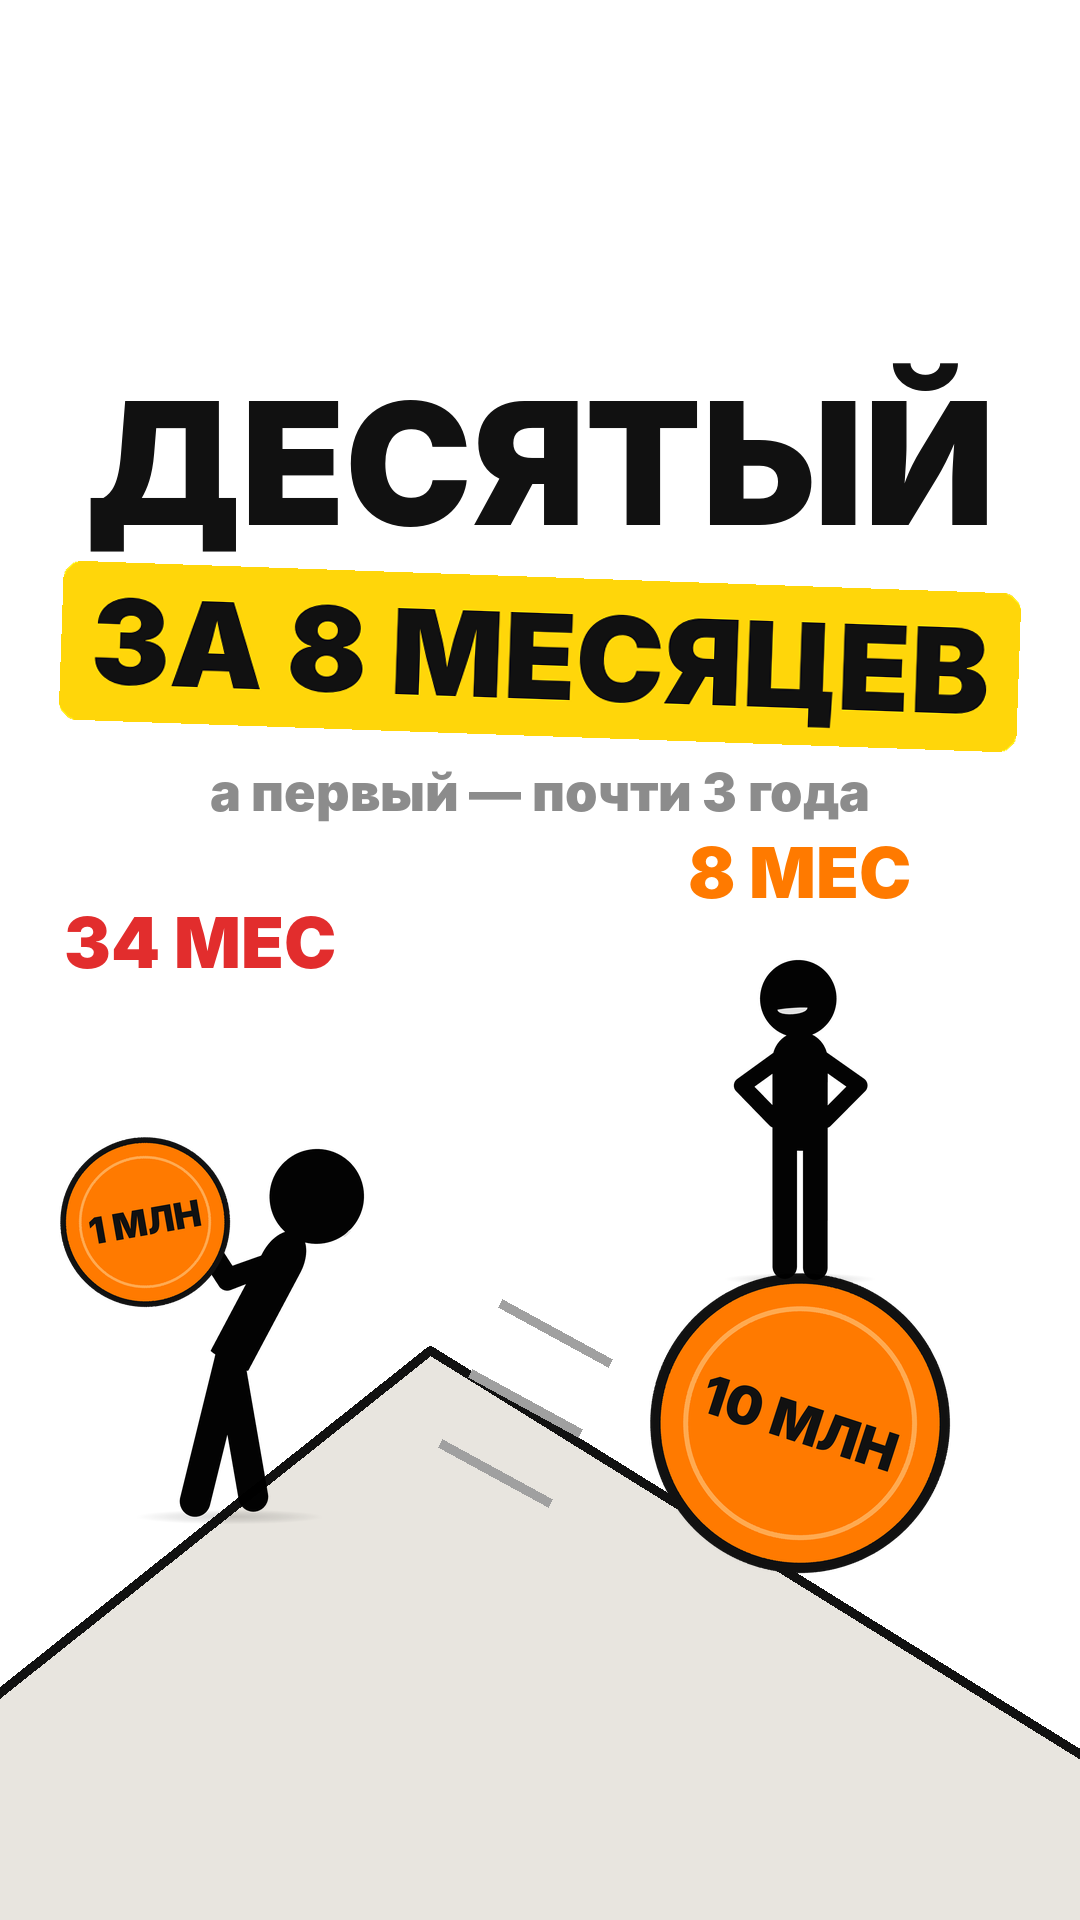
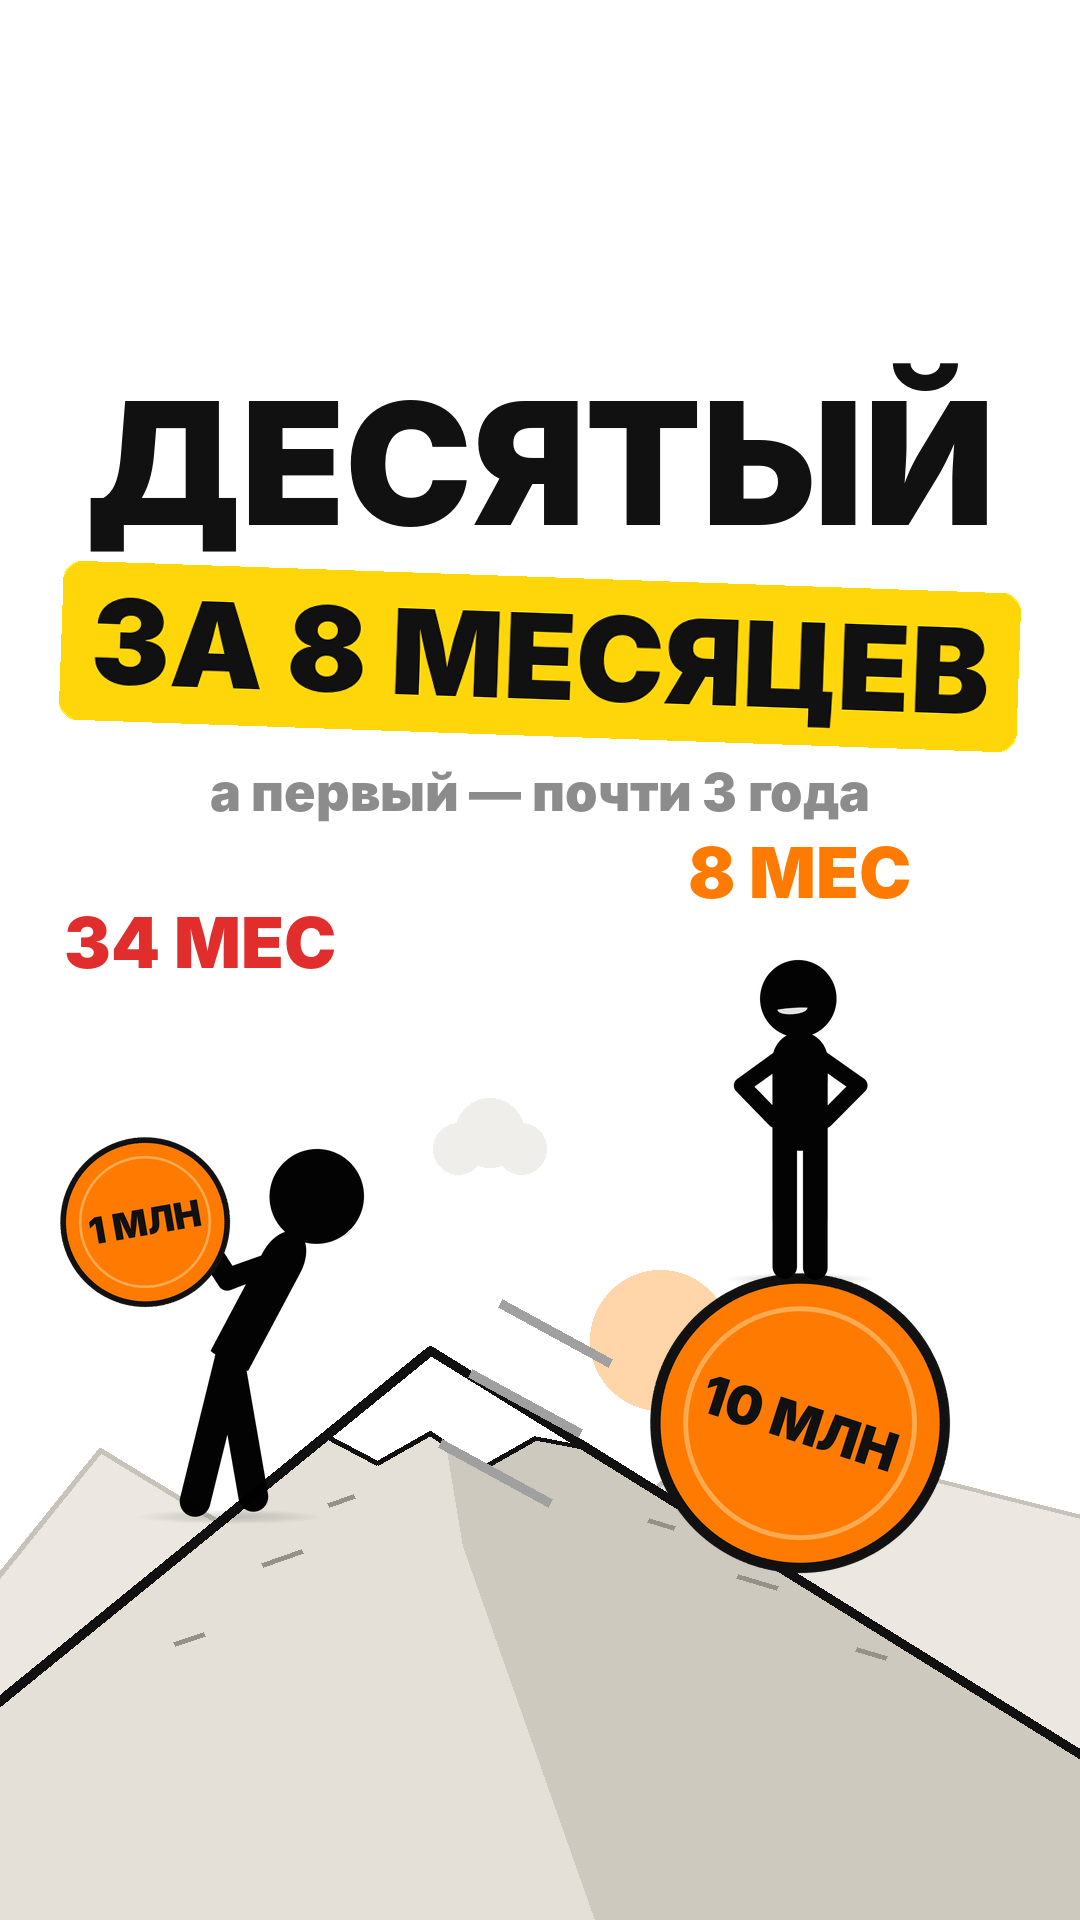
Рилс «Первый миллион и десятый» v2: жёлтые субтитры, карточка по центру, ком лицом, новая гора
Claude-Session: https://claude.ai/code/session_01FderYzRacEPUjQqrFVmPri

Changed region(s): [[0.3056, 0.6562, 1.0, 1.0], [0.0, 0.75, 0.2139, 0.9062]]

diff --git a/ne-tupi/render/procent/kod/compose_p.py b/ne-tupi/render/procent/kod/compose_p.py
@@ -2,11 +2,11 @@
 Палитра: белый / оранжевый / чёрный / красный."""
 import json, math, os, sys, subprocess, numpy as np
 from functools import lru_cache
-from PIL import Image, ImageDraw, ImageFont
+from PIL import Image, ImageDraw, ImageFont, ImageOps
 from words import W, B, END, DUR
 from tm import T
 FPS = 24; N = int(DUR * FPS); WD, HT = 1080, 1920; SS = 2
-BG = (244, 242, 238); OR = (255, 122, 0); ORL = (255, 214, 170); RED = (226, 45, 45); INK = (17, 17, 17); WHITE = (255, 255, 255)
+YEL = (255, 214, 10); BG = (244, 242, 238); OR = (255, 122, 0); ORL = (255, 214, 170); RED = (226, 45, 45); INK = (17, 17, 17); WHITE = (255, 255, 255)
 GREY = (150, 150, 150); LG = (232, 229, 223); OWN = (38, 38, 38)
 FB = '/usr/share/fonts/opentype/inter/Inter-Black.otf'; FX = '/usr/share/fonts/opentype/inter/Inter-ExtraBold.otf'
 @lru_cache(None)
@@ -97,7 +97,7 @@ def dashed(d, p0, p1, k, col=RED, w=7, dash=22, gap=14):
         e = min(L, s + dash); d.line([S(p0[0] + ux * s), S(p0[1] + uy * s), S(p0[0] + ux * e), S(p0[1] + uy * e)], fill=col, width=S(w)); s += dash + gap
 
 # ---------------- раскладка кадра ----------------
-CX0, CY0, CW, CH = 50, 452, 880, 712          # карточка (справа 150 px — зона кнопок Reels)
+CX0, CY0, CW, CH = 100, 452, 880, 712          # карточка (справа 150 px — зона кнопок Reels)
 SUB_Y = 1236; NOTE_Y = 1462                   # субтитры, нижняя плашка-сноска (выше 390 px снизу)
 # график внутри карточки (локальные координаты)
 PX0, PX1, PY0, PY1 = 110, 846, 178, 500
@@ -171,10 +171,38 @@ def chips(G, t, vals, t0=0):
 SUMX, SUMY, GND = 440, 300, 640
 def slope(x):  # высота склона в точке x (локально)
     return GND - (GND - SUMY) * (x / SUMX if x <= SUMX else (CW - x) / (CW - SUMX))
+def draw_mountain(d, X, L, P, Rt, bottom, lw, sun=True):
+    """гора: солнце, дальние холмы, светлый и теневой склоны, снежная шапка, камни. X(x, y) — в пиксели холста."""
+    (lx, ly), (px, py), (rx, ry) = L, P, Rt; h = ly - py
+    def poly(pts, **kw): d.polygon([X(x, y) for x, y in pts], **kw)
+    if sun:
+        cx, cy, r = px + 230, py - 10, 70
+        (x0, y0), (x1, y1) = X(cx - r, cy - r), X(cx + r, cy + r); d.ellipse([x0, y0, x1, y1], fill=ORL)
+    far = [(lx - 40, ly - h * 0.2), (px - 330, py + h * 0.28), (px - 200, py + h * 0.5), (px - 90, py + h * 0.4), (px + 120, py + h * 0.62),
+           (px + 300, py + h * 0.22), (rx + 40, py + h * 0.5), (rx + 40, bottom), (lx - 40, bottom)]
+    poly(far, fill=(236, 232, 225)); d.line([X(x, y) for x, y in far[:7]], fill=(200, 195, 186), width=max(1, lw // 2), joint='curve')
+    for (cx_, cy_, w_) in ((px - 280, py - 150, 120), (px + 60, py - 210, 90)):   # облака
+        for (ox, oy, rr) in ((-0.35, 0.1, 0.28), (0, -0.08, 0.38), (0.35, 0.1, 0.28)):
+            (x0, y0), (x1, y1) = X(cx_ + ox * w_ - rr * w_, cy_ + oy * w_ - rr * w_), X(cx_ + ox * w_ + rr * w_, cy_ + oy * w_ + rr * w_)
+            d.ellipse([x0, y0, x1, y1], fill=(240, 238, 234))
+    poly([L, P, Rt, (rx, bottom), (lx, bottom)], fill=(228, 224, 216))
+    poly([P, Rt, (rx, bottom), (px + (rx - px) * 0.25, bottom), (px + (rx - px) * 0.05, py + h * 0.55)], fill=(206, 201, 191))
+    k = 0.24; a = (px + (lx - px) * k, py + h * k); b = (px + (rx - px) * k, py + (ry - py) * k)
+    zz = [a]
+    for j in range(1, 5):
+        u = j / 5; x = a[0] + (b[0] - a[0]) * u; y = a[1] + (b[1] - a[1]) * u + (h * 0.07 if j % 2 else -h * 0.02)
+        zz.append((x, y))
+    poly([P, b] + zz[::-1][:-1] + [a], fill=WHITE)
+    d.line([X(x, y) for x, y in zz + [b]], fill=INK, width=max(1, lw // 2), joint='curve')
+    for (u, v, l) in ((0.55, 0.62, 40), (0.35, 0.8, 30), (0.7, 0.45, 26)):
+        x = lx + (px - lx) * u + 30; y = ly - (ly - py) * u + 40 * v + 30
+        d.line([X(x, y), X(x + l, y - l * 0.35)], fill=(150, 145, 136), width=max(1, lw // 2))
+        x2 = px + (rx - px) * (1 - u) * 0.9 + 40; y2 = py + (ry - py) * (1 - u) * 0.9 + 60
+        d.line([X(x2, y2), X(x2 + l, y2 + l * 0.3)], fill=(150, 145, 136), width=max(1, lw // 2))
+    d.line([X(*L), X(*P), X(*Rt)], fill=INK, width=lw, joint='curve')
 def mountain(G):
-    d = ImageDraw.Draw(G); pts = [(-10, GND + 5), (SUMX, SUMY), (CW + 10, GND + 5)]
-    d.polygon([(S(x), S(y)) for x, y in pts + [(CW + 10, CH + 10), (-10, CH + 10)]], fill=LG)
-    d.line([(S(x), S(y)) for x, y in pts], fill=INK, width=S(6), joint='curve')
+    d = ImageDraw.Draw(G)
+    draw_mountain(d, lambda x, y: (S(x), S(y)), (-10, slope(-10)), (SUMX, SUMY), (CW + 10, slope(CW + 10)), CH + 10, S(6))
 
 # ---------------- сцены карточки: рисуют в G (локально, 2x), возвращают позицию персонажа (x, ноги, масштаб) локально ----------------
 CHS = 0.13
@@ -191,7 +219,7 @@ def sc_hook(G, t, i):
     if k > 0.05: paste(G, plate_img('8 МЕС', 56, WHITE, OR, pad=0), CW - 105, 92, k)
     # монета 10 МЛН катится вниз по правому склону, человечек едет сверху
     u = clamp((t - td) / (B[1] + 1.3 - td)); u = u * u * 0.85 + u * 0.15
-    x = SUMX + 10 + (CW - 190 - SUMX) * u; r = 92 + 18 * u
+    x = SUMX + 110 + (CW - 120 - SUMX - 110) * u; r = 74 + 16 * u
     ang = (x - SUMX) / CW * (CW - SUMX)
     # центр монеты над склоном по нормали
     nx, ny = math.sin(math.atan2(GND - SUMY, CW - SUMX)), math.cos(math.atan2(GND - SUMY, CW - SUMX))
@@ -200,7 +228,7 @@ def sc_hook(G, t, i):
         if u > 0.02 and u < 0.98:
             yy = cy - r * 0.5 + j * r * 0.5; d.line([S(cx - r - 40 - j * 20), S(yy - 30), S(cx - r - 110 - j * 20), S(yy - 60)], fill=GREY, width=S(5))
     coin(G, cx, cy, r, '10 МЛН', rot=-ang * 1.4)
-    return (cx, cy - r + 4, 0.17), None
+    return (cx, cy - r + 4, 0.15), None
 
 def sc_why(G, t, i):
     st = sc_hook(G, t, i)
@@ -339,7 +367,7 @@ def sc_cta(G, t, i):
     return (tip[0] - 2, tip[1], CHS), None
 
 def sc_final(G, t, i):
-    plate(G, t, T['netupi'] - 0.3, 'ВСЁ.\nНЕ ТУПИ', 440, 150, 80, OR, INK, rot=-4)
+    plate(G, t, T['netupi'] - 0.3, 'ВСЁ.\nНЕ ТУПИ', 440, 150, 80, YEL, INK, rot=-4)
     return (440, 660, 0.24), None
 
 SCENES = [sc_hook, sc_why, sc_setup, sc_line, sc_stop, sc_count, sc_snow, sc_count, sc_count, sc_pie, sc_month, sc_twist, sc_cta, sc_final]
@@ -350,7 +378,7 @@ CARD_CHANGE = [B[2], B[5], B[6], B[7], B[9], B[10], B[11], B[12], B[13]]
 def header(img, t):
     G = Image.new('RGBA', (WD * SS, 220 * SS), (0, 0, 0, 0)); d = ImageDraw.Draw(G)
     text(d, (WD / 2, 6), 'ПЕРВЫЙ МИЛЛИОН', 62, INK, True, 'ma')
-    paste(G, plate_img('И ДЕСЯТЫЙ', 58, OR, INK, pad=16), WD / 2, 112)
+    paste(G, plate_img('И ДЕСЯТЫЙ', 58, YEL, INK, pad=16), WD / 2, 112)
     L = line_of(t)
     tag = None
     if L == 3 and t >= T['tridcat'] - 0.1: tag = ('ПО ПРЯМОЙ — 30 ЛЕТ', WHITE, RED, RED, T['tridcat'] - 0.1)
@@ -380,11 +408,11 @@ def nir_img():
     im = plate_img('Не является индивидуальной инвестиционной рекомендацией', 23, WHITE, RED, pad=12, border=RED, ss=1)
     return im
 def bottom(img, t):
-    n = note_img(); img.paste(n, (int(490 - n.width / 2), NOTE_Y - n.height // 2), n)
+    n = note_img(); img.paste(n, (int(540 - n.width / 2), NOTE_Y - n.height // 2), n)
     if t < 5.0:
         a = 1 if t < 4.7 else (5.0 - t) / 0.3; m = nir_img().copy()
         if a < 1: m.putalpha(m.getchannel('A').point(lambda v: int(v * a)))
-        img.paste(m, (int(490 - m.width / 2), NOTE_Y - 42 - m.height), m)
+        img.paste(m, (int(540 - m.width / 2), NOTE_Y - 42 - m.height), m)
 
 # ---------------- субтитры ----------------
 SUBF = ImageFont.truetype(FB, 54); SP = 13; MAXW = 800
@@ -409,10 +437,10 @@ def subs(img, t, y0=SUB_Y):
     if not g: return
     d = ImageDraw.Draw(img); lines = wrap(g); y = y0 if len(lines) == 1 else y0 - 36
     for ln in lines:
-        ws = [wlen(w) for w in ln]; x = 490 - (sum(ws) + SP * (len(ws) - 1)) / 2
+        ws = [wlen(w) for w in ln]; x = 540 - (sum(ws) + SP * (len(ws) - 1)) / 2
         for w, wd in zip(ln, ws):
             on = w[1] <= t < w[2] + 0.15
-            if on: d.rounded_rectangle([x - 9, y - 6, x + wd + 9, y + 66], radius=12, fill=OR)
+            if on: d.rounded_rectangle([x - 9, y - 6, x + wd + 9, y + 66], radius=12, fill=YEL)
             d.text((x, y), w[0].upper().strip('«»'), font=SUBF, fill=INK)
             x += wd + SP
         y += 74
@@ -455,6 +483,7 @@ def frame(i):
     cx, feet, s = CX0 + dx + lx, CY0 + lf, ls
     x0, y0, cw, chh = char_box(i, cx, feet, s)
     ch = Image.open(f'kadry/main/{i:03d}.png').convert('RGB').crop(CH_CROP).resize((cw, chh), Image.LANCZOS)
+    if L == 6 and t < T['kom'] - 0.05: ch = ImageOps.mirror(ch)   # толкает ком лицом вперёд
     layer = Image.new('RGB', (WD, HT), WHITE); layer.paste(ch, (x0, y0))
     cl = Image.new('L', (WD, HT), 0); ImageDraw.Draw(cl).rounded_rectangle([CX0 + dx + 3, CY0 - 40, CX0 + dx + CW - 3, CY0 + CH - 3], radius=24, fill=255)
     layer = Image.composite(layer, Image.new('RGB', (WD, HT), WHITE), cl)
@@ -472,7 +501,7 @@ def frame(i):
             dd.ellipse([x - 6, y - 9, x + 6, y + 9], fill=(120, 170, 230))
     if L == 4:   # «Стоп» поверх всего
         G2 = Image.new('RGBA', (WD, HT), (0, 0, 0, 0))
-        plate(G2, t, T['stop'] - 0.05, 'СТОП.\nТУТ ТЫ ТУПИШЬ', 490, 780, 84, OR, INK, rot=-4, ss=1)
+        plate(G2, t, T['stop'] - 0.05, 'СТОП.\nТУТ ТЫ ТУПИШЬ', 540, 780, 84, YEL, INK, rot=-4, ss=1)
         img.paste(G2, (0, 0), G2)
     z = zoom(t)
     if z != 1:

diff --git a/ne-tupi/render/procent/oblozhka/cover_p.py b/ne-tupi/render/procent/oblozhka/cover_p.py
@@ -18,9 +18,9 @@ def ptext(d, cx, y, s, sz, bg=None, fg=INK, rot=0, img=None):
         p = p.rotate(rot, Image.BICUBIC, expand=True); img.paste(p, (int(cx - p.width / 2), int(y)), p)
     else: d.text((cx, y), s, font=f, fill=fg, anchor='ma')
 def mountain(img, top=1350, gnd=1700, sx=430):
-    d = ImageDraw.Draw(img); pts = [(-10, gnd), (sx, top), (W + 10, gnd + 60)]
-    d.polygon(pts + [(W + 10, H), (-10, H)], fill=(232, 229, 223)); d.line(pts, fill=INK, width=10, joint='curve')
-    return lambda x: gnd - (gnd - top) * x / sx if x <= sx else top + (gnd + 60 - top) * (x - sx) / (W - sx)
+    d = ImageDraw.Draw(img); rgnd = gnd + 60
+    C.draw_mountain(d, lambda x, y: (int(x), int(y)), (-10, gnd + 10 * (gnd - top) / sx), (sx, top), (W + 10, rgnd), H, 10, sun=True)
+    return lambda x: gnd - (gnd - top) * x / sx if x <= sx else top + (rgnd - top) * (x - sx) / (W - sx)
 def coinp(img, cx, cy, r, lab, rot=0):
     im = C.coin_img(r, lab, rot); img.paste(im, (int(cx - im.width / 2), int(cy - im.height / 2)), im)
 

diff --git a/ne-tupi/render/procent/README.md b/ne-tupi/render/procent/README.md
@@ -1,4 +1,5 @@
 # «Первый миллион и десятый» (сложный процент) v1 (2026-11-12)
+- procent-v2.mp4 — правки: субтитры и фирменные плашки жёлтые, карточка по центру, ком толкает лицом, новая гора (draw_mountain). v1 там же.
 - procent-v1.mp4 — 1080x1920, 24 fps, 72 сек. Голос hU3rD0Yk7DoiYULTX1pD, eleven_v4. Сценарий и таблица расчёта: ne-tupi-idei/procent/scenariy-v1.md, подпись: opisanie.md.
 - Формат присланного рилса: постоянная шапка «ПЕРВЫЙ МИЛЛИОН / И ДЕСЯТЫЙ», белая карточка со сменными сценами (гора с монетами, прямая «как думает большинство», живой график свои/проценты со столбиками «месяцев на каждый миллион», снежный ком, пирог 4/6 млн, столбики «каждый месяц» ×4, вопрос в комменты). Палитра белый / оранжевый #FF7A00 / чёрный / красный.
 - Расчёт честный и считается прямо в compose_p.py: 25 000 ₽ в начале месяца, 12%/12 в месяц, ежемесячная капитализация. Плашка «без учёта инфляции и налога на доходы» весь ролик, «не является ИИР» первые 5 сек.
